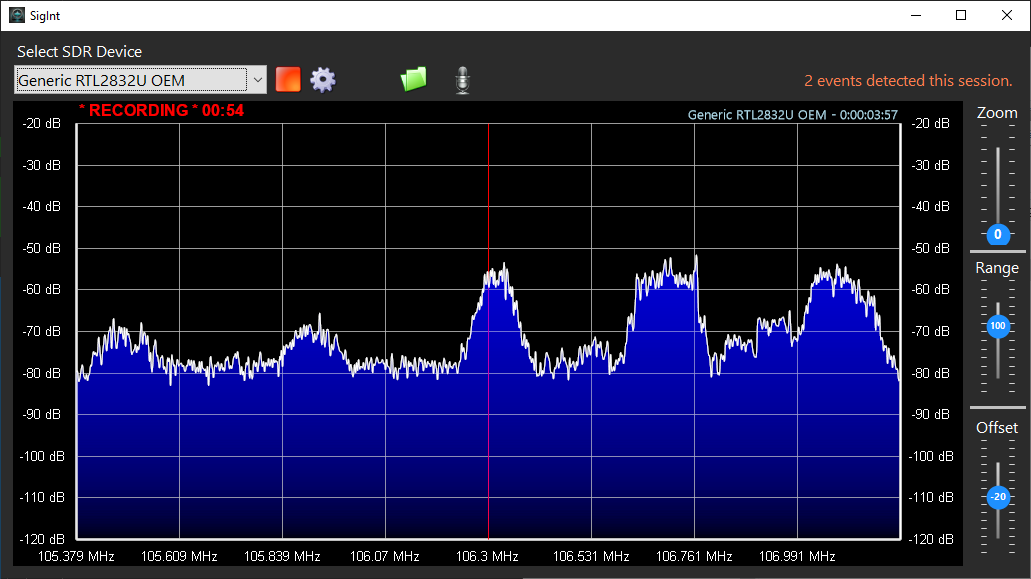
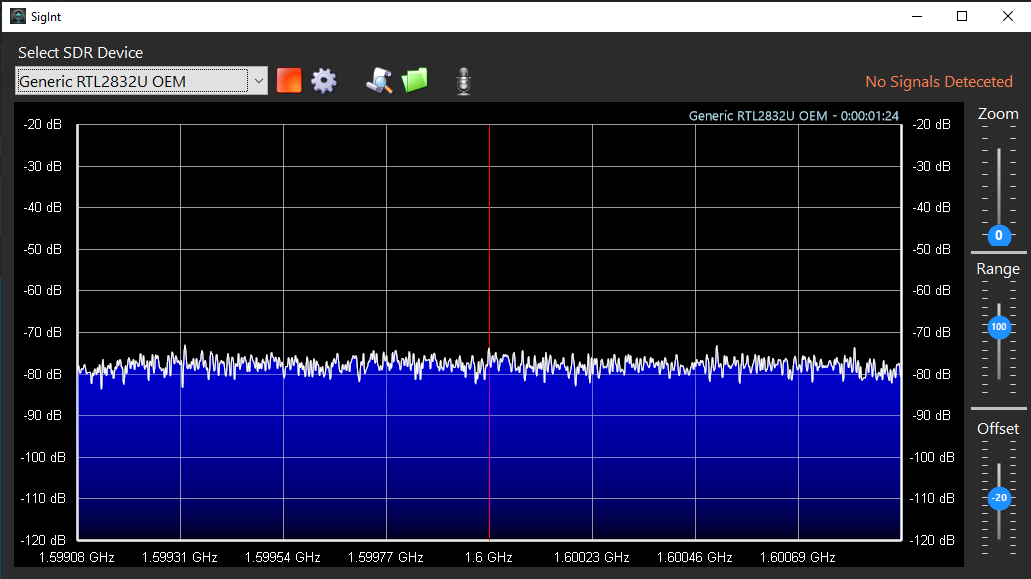
Updated screenshots and repository readme file.

Changed region(s): [[0.0, 0.0, 1.0, 1.0], [0.9622, 0.0, 1.0, 0.0622]]

diff --git a/README.md b/README.md
@@ -4,15 +4,16 @@
 
 
 ## Overview  
-This application **monitors a user-defined center frequency**, detecting signals that exceed a configurable **dB threshold above the noise floor**. When a signal is detected, the system **captures IQ data for up to 60 seconds** and saves it in a **compressed ZIP archive**—ensuring a **minimum delay between captures**, as configured by the user.
+This application **monitors a user-defined center frequency**, detecting signals or an increase in average noise floor level that exceed a configurable **dB threshold value**. When an event is detected, the system **captures the raw IQ data for up to 60 seconds** and saves it in a **compressed ZIP archive**—ensuring a **minimum delay between captures**, as configured by the user.
 
 ### 🔧 **Configurable Detection Settings**  
 - **Center Frequency** (Hz)  
 - **Sample Rate** (MSPS)  
 - **Automatic or Manual Gain Control** (with adjustable dB values)  
 - **Signal Detection Threshold** (dB above noise)  
-- **Detection Window** (FFT bins around center frequency)  
-- **Minimum Event Recording Window** (to prevent excessive captures)  
+- **Signal Detection Window** (FFT bins around center frequency)  
+- **Noise Floor Detection Threshold** (dB above average noise floor)  
+- **Event Reset Delay** (to prevent excessive captures)  
 
 The system is designed to efficiently capture meaningful signal events while avoiding unnecessary recordings.
 
@@ -22,7 +23,7 @@ The **Playback Viewer** allows users to:
 - **Export recordings to SDRSharp-compatible WAV format** for further analysis.
 
 ## Key Features
-📡 **Real-Time Signal Detection** – Automatically records signals that exceed a configurable threshold.  
+📡 **Real-Time Event Detection** – Automatically records signals or increase in noise floor level that exceed a configurable threshold.  
 💾 **Compressed IQ Data Storage** – Saves signal captures efficiently in a ZIP archive.  
 📊 **Playback & Visualization** – Displays waveform and waterfall plots of recorded signals.  
 ⏪ **Seekable Playback** – Scrub through recordings with a timeline control.  
@@ -92,8 +93,8 @@ Once your RTL-SDR is working, download and install **SigInt** from the repositor
 
 ### **How SigInt Works**
 - The signal spectrum will be displayed, and monitoring will begin.  
-- **Minimize SigInt** and let it run. It will automatically detect and log signal events.  
-- To view the log, click the **green folder icon** to open the log folder, then double-click the `"Application_Log.txt"` file in File Explorer. 
+- **Minimize SigInt** and let it run. It will automatically detect and log signal and noise floor events.  
+- To view the log, click the **scroll icon**.  To open the log folder in Windows Explorer, click the **green folder icon**. 
 - To view recorded events, click the **microphone icon** to open the playback window.  Select the desired archive from the list at top-left then click the play button to begin playback.
 
 ## Contributing  
